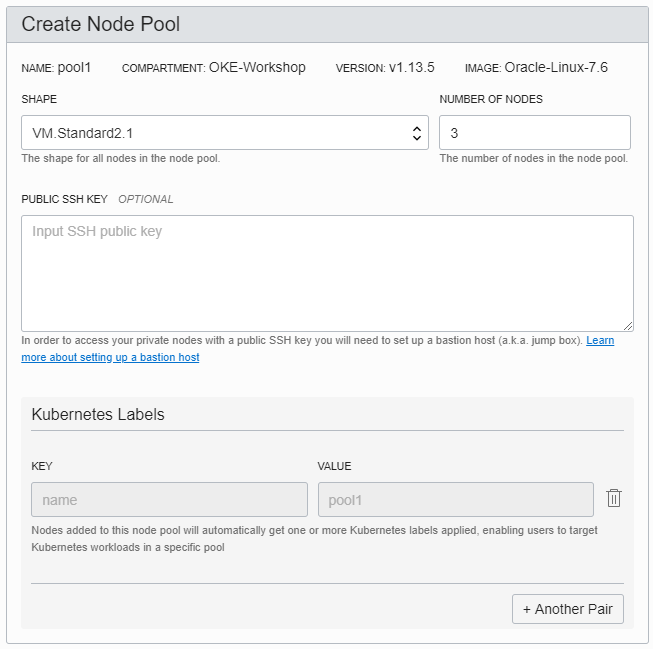
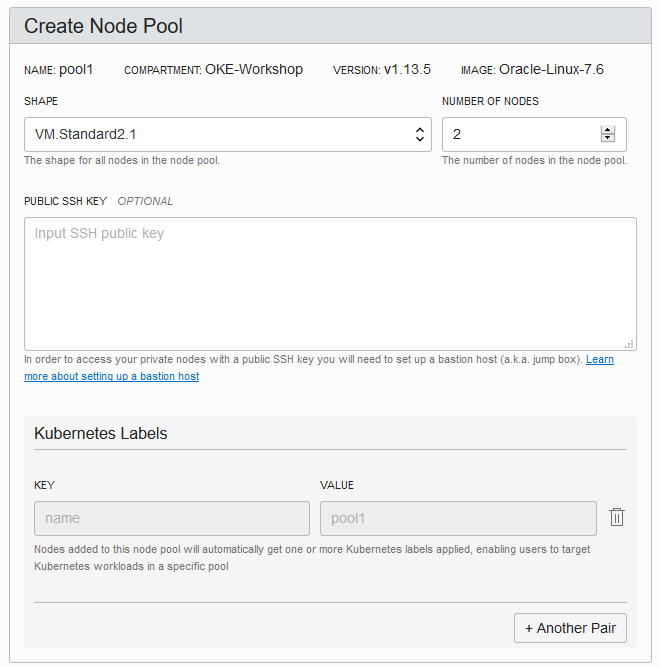
Add files via upload

diff --git a/Lab 200/lab200.md b/Lab 200/lab200.md
@@ -21,7 +21,7 @@ Data:
 * [x] Quick Create
 * [x] Private
 * Shape: VM.Standard2.1
-* Number of Nodes: 3
+* Number of Nodes: 2
 * Public SSH Key: *leave blank*
 * [x] Kubernetes Dashboard enabled
 * [x] Tiller (Helm) enabled
@@ -59,6 +59,12 @@ Copy the three commands for future use.
 
 ![OKE](images/oke10.png)
 
+> NOTE:
+>
+> We will use the --token-version 1.0.0 config file, that still use the Kubernetes Token to authenticate.
+> You will need to change the code from --token-version 2.0.0 to --token-version 1.0.0
+> 
+
 The cluster is ready to be used, so let's get inside our Bastion Host VM to start manage the cluster.
 
 ## Configuring the Bastion Host VM for your OKE Cluster
@@ -67,23 +73,43 @@ You will need to connect to your VM and configure the access to your specifc clu
 
 So, let's do it!
 
-### For Linux/MacOS environments
+### Using PuTTY in Windows
 
-Open the terminal and type:
+Configure your PuTTY connection as the following images.
 
-    ssh opc@'your_remote_bastion_ip_address' -i 'your_oci_api_key_local_path'/oci_api_key.pem -L 8001:localhost:8001
+Inform your Bastion Host IP.
 
-### For Windows environments
+![PuTTY](images/putty01.png)
 
-Here you have 2 options:
+Select the Connection --> Data section and fill the "Auto-login username" with "opc".
 
-* Windows PowerShell:
+![PuTTY](images/putty02.png)
 
-Open the PowerShell terminal and type:
+Select the Connection --> SSH --> Auth section and find the .ppk file you created with PuTTYgen.
 
-    ssh opc@'your_remote_bastion_ip_address' -i 'your_oci_api_key_local_path'/oci_api_key.pem -L 8001:localhost:8001
+![PuTTY](images/putty03.png)
 
-* Windows PuTTY:
+Select the Connection --> SSH --> Tunnels section and fill the "Source port" with "8001" and the "Destination" with "localhost:8001".
+
+![PuTTY](images/putty04.png)
+
+Click the **Add** button.
+
+![PuTTY](images/putty05.png)
+
+Return to the Session section name the field "Saved Sessions" with "OKE Bastion Host VM" and click the **Save** button.
+
+![PuTTY](images/putty06.png)
+
+Accept the host as trustable (click the **Yes** button).
+
+![PuTTY](images/putty07.png)
+
+Now you are connected to the Bastion Host VM in Oracle Cloud and the SSH tunnel to the remote port 8001 is up.
+
+![PuTTY](images/putty08.png)
+
+Here is a summary of the PuTTY configuration:
   * Session
     * Host Name (or IP Address): 'your_remote_bastion_ip_address'
   * Connection
@@ -104,13 +130,39 @@ Open the PowerShell terminal and type:
   * Click the **Save** button
   * Click the **Open** button
 
+You can go directly to the section "Configuring the Bastion Host VM".
+
+### Using Linux Shell or Windows PowerShell
+
+Open the PowerShell and go to the directory where your keys are saved.
+
+![PowerShell](images/powershell01.png)
+
+Type the command to connect to your Bastion Host VM:
+
+>
+> ssh opc@'your_bastion_host_ip' -i .\oci_api_key.pem -L 8001:localhost:8001
+>
+
+And type "yes" to accept the host as trustable.
+
+![PowerShell](images/powershell02.png)
+
+Now you are connected to the Bastion Host VM in Oracle Cloud and the SSH tunnel to the remote port 8001 is up.
+
+### Already connected
+
 After you connect to your Bastion Host VM, run the following commands:
 
     oci setup repair-file-permissions --file /home/opc/.oci/oci_api_key.pem
 
 ![PuTTY](images/putty01.png)
 
-Now you are ready to run the commands of the "Getting Started" session of the Cluster Details page and, after that, run the following commands
+Now you are ready to run the commands of the "Getting Started" session of the Cluster Details page.
+
+**Pay attention to the version used in th command! It must be *--token-version 1.0.0***
+
+After the Kubeconfig file is configured, run the following commands to get some important information we will need later:
 
     cat ~/.kube/config | grep token && cat ~/.kube/config | grep server
     kubectl proxy
@@ -129,4 +181,6 @@ You are logged in the Kubernetes Dashboard!
 
 ![PuTTY](images/dash02.png)
 
-Now you can much easily follow the steps of [Container Native Development Workshop](https://oracle.github.io/learning-library/workshops/container-native-development/?version=Virtual+Box&page=LabGuide100.md) that is partially translated (with some more explanations) on [this manual](https://www.manula.com/manuals/hoshikawa-cristiano/devops-containers/1/pt/topic/devops-com-oracle-container-pipelines)
+Now you can much easily follow the steps of [Container Native Development Workshop](https://oracle.github.io/learning-library/workshops/container-native-development/?version=Virtual+Box&page=LabGuide100.md) that is partially translated (with some more explanations) on [this manual](https://www.manula.com/manuals/hoshikawa-cristiano/devops-containers/1/pt/topic/devops-com-oracle-container-pipelines).
+
+Go to the [Lab 300: Final Labs and Files](https://github.com/diogoshibata/terraform-bastion/blob/master/Lab%20300/lab300.md) finish this workshop.
